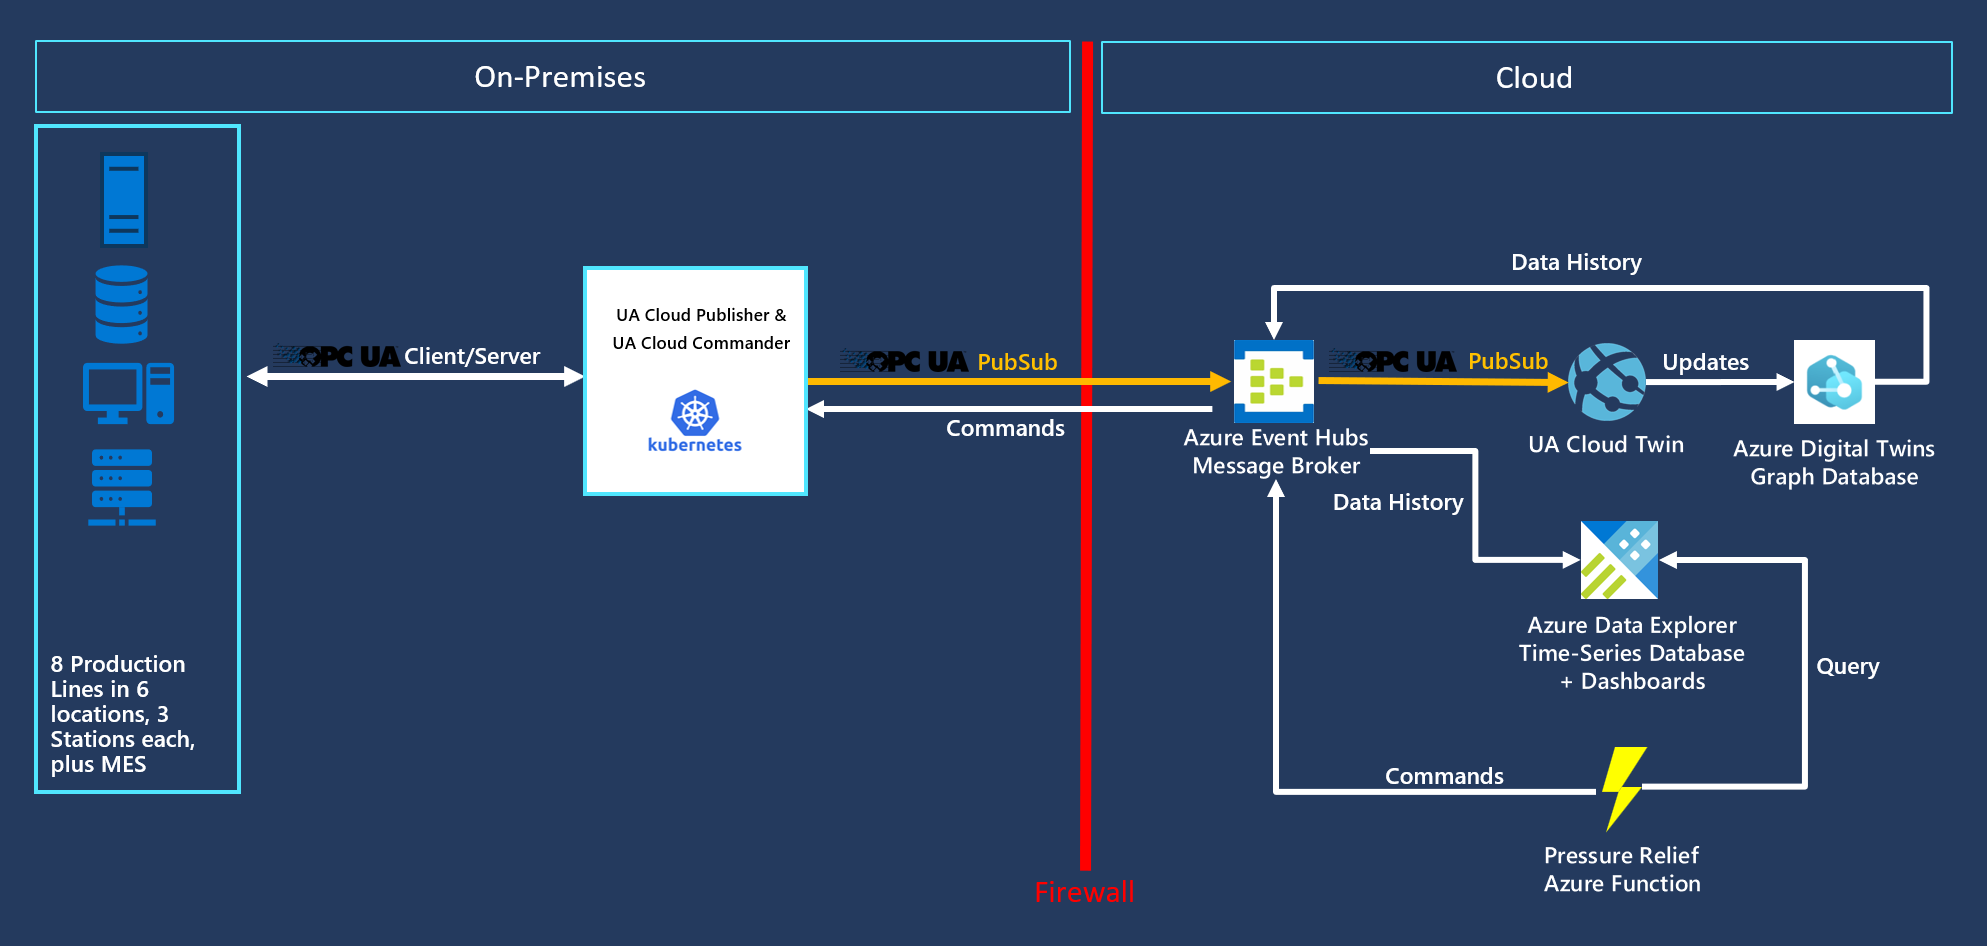
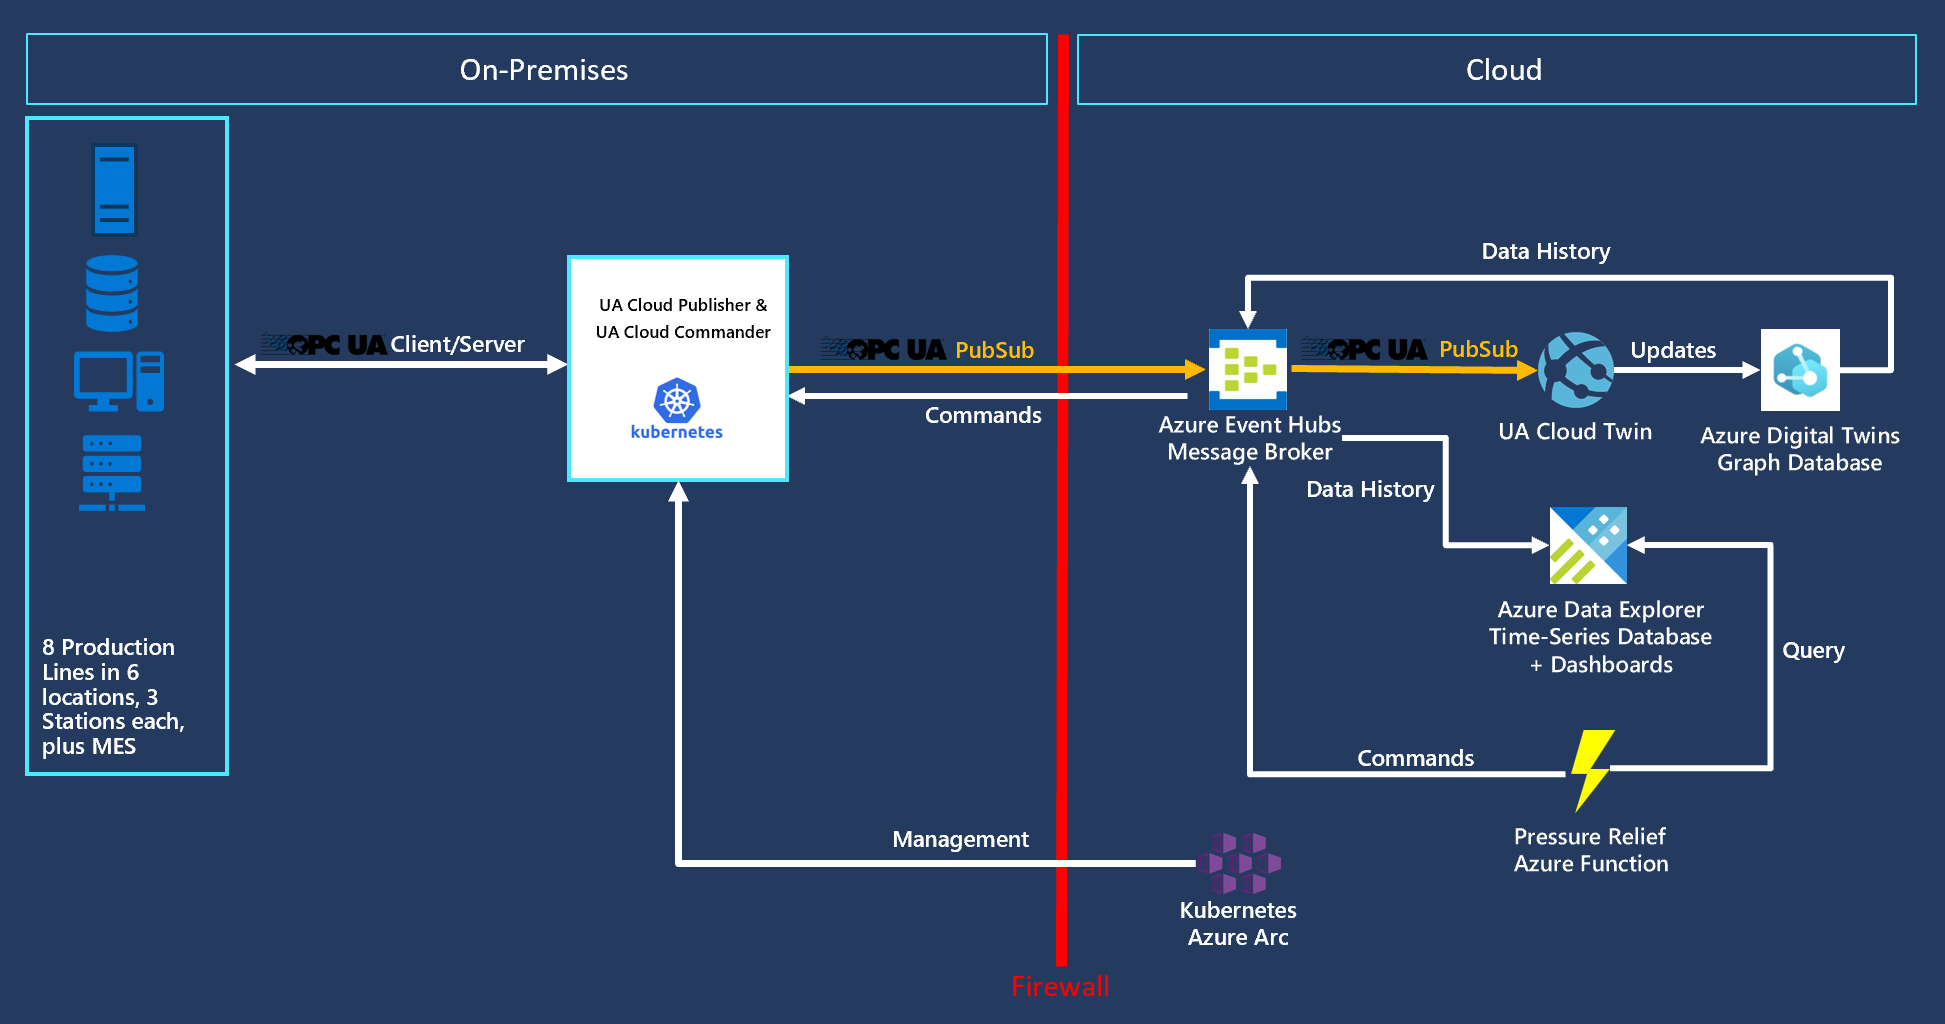
Added Azure Arc instructions

Changed region(s): [[0.0, 0.0307, 0.9871, 0.9197], [0.7712, 0.889, 0.8638, 0.9503], [0.5244, 0.9197, 0.5861, 0.981]]

diff --git a/README.md b/README.md
@@ -75,22 +75,6 @@ The following OPC UA Node IDs are used in the Station OPC UA Server for telemetr
 * i=418 - actual cycle time
 * i=434 - pressure
 
-### Preparing for the Installation of the Production Line Simulation
-
-The production line simulation runs on an on-prem, single-node Kubernetes cluster, provided by Docker Desktop ontop of a Windows Virtual Machine. The Kubernetes cluster is managed from the cloud via Azure Arc. Azure Arc requires a key pair (public and private) to operate. Create the required key pair via the [Azure Cloud Shell](https://shell.azure.com)'s `ssh-keygen` command:
-
-    ssh-keygen -t rsa -b 4096
-
-Note: The first time you start the Azure Cloud Shell, you will be prompted to setup Azure Storage. Simply click on Create storage.
-
-Note: By default, the public and private key files are created in the ~/.ssh directory. Running the ssh-keygen command will overwrite any SSH key pair with the same name already existing in the given location.
-
-Then, display the public key and copy everything past `ssh-rsa ` up to and including `==`. You will need it later when deploying the Azure resources:
-
-    more ~/.ssh/id_rsa.pub
-
-Note: If you need to access the keys at a later date, you can simply click on the Azure Cloud Shell icon in the top-right-hand corner of the Azure Portal to open the Azure Chould Shell again.
-
 ### Installation of Production Line Simulation and Cloud Services
 
 Clicking on the button below will **deploy** all required resources (on Microsoft Azure):
@@ -117,13 +101,21 @@ Please note: If you restart Docker Desktop at any time, you will need to stop an
 
 ### Next Steps
 
+#### Using Azure Digital Twins Explorer
+
 If you want to view the digital twins graph automatically created in the Azure Digital Twins service, assign yourself the Azure Digital Twins Data Owner role in the Azure Portal and open the Azure Digital Twins Explorer directly from the Azure Digital Twins overview page.
+
+#### Using 3D Scenes Studio
 
 If you want to add a 3D viewer to the simulation, you can follow the steps to configure the 3D Scenes Studio outlined [here](https://learn.microsoft.com/en-us/azure/digital-twins/how-to-use-3d-scenes-studio) and map the 3D robot model from [here](https://cardboardresources.blob.core.windows.net/public/RobotArms.glb) to the digital twins automatically generated by the UA Cloud Twin:
 
 <img src="Docs/3dviewer.png" alt="3dviewer" width="900" />
 
+#### Calculating OEE
+
 If you want to calculate OEE, add no-code dashboards or make predictions about the production, set up the [Data History](https://learn.microsoft.com/en-us/azure/digital-twins/concepts-data-history) feature in the Azure Digital Twins service to historize your contextualized OPC UA data to Azure Data Explorer deployed in this solution. You can find the wizard to set this up in the Azure Digital Twins service configuration in the Azure portal. 
+
+#### Enabling the Digital Feedback Loop with UA Cloud Commander and the Pressure Relief Azure Function
 
 If you want to test a "digital feedback loop", i.e. triggering a command on one of the OPC UA servers in the simulation from the cloud, based on a time-series reaching a certain threshold (the simulated pressure), then configure and run the StartUACloudCommander.bat file by providing the two environment variables (ENTER_EVENT_HUBS_HOSTNAME_HERE in the form "yourname-eventhubs.servicebus.windows.net" and ENTER_EVENT_HUBS_CONNECTION_STRING_HERE in the form "Endpoint=sb://yourname-eventhubs.servicebus.windows.net/;SharedAccessKeyName=RootManageSharedAccessKey;SharedAccessKey=abcdefgh=") in the batch file and deploy the PressureRelief Azure Function in your Azure subscription and create an application registration for your ADX instance as described [here](https://docs.microsoft.com/en-us/azure/data-explorer/provision-azure-ad-app). You also need to define the following environment variables in the Azure portal for the Function:
 
@@ -143,7 +135,25 @@ If you want to test a "digital feedback loop", i.e. triggering a command on one 
 * UA_SERVER_APPLICATION_NAME - set to "assembly"
 * UA_SERVER_DNS_NAME - set to "seattle"
 
-### Replacing the Production Line Simulation with a Real Production Line
+#### Onboarding the On-Prem Kubernetes Cluster for Management via Azure Arc in the Cloud
+
+To onboard your on-prem Kubernetes cluster, you first need to install the [Azure CLI](https://aka.ms/installazurecliwindows) on the Windows VM. Once installation complates, open a Command Prompt Window and login to Azure via:
+
+    az login
+
+Note: If you have access to more than one Azure subscription, you can verify you are using the correct subscription after login by running `az account show` and you can switch subscriptions by running `az account set -n <yourSubscriptionName>`.
+
+Then, onboard your cluster via:
+
+    az connectedk8s connect -g <yourResourceGroupName -n <theNameYouWantToGiveYourKubernetesClusterInAzure>
+
+Once the command completes, in the Azure Portal, click on the newly created Azure Arc instance and select Configuration. Open a PowerShell window and follow the instructions to create a beaker token to access the configuration. You can display the bearer token by typing echo $TOKEN in PowerShell.
+
+#### Deploying UA Cloud Publisher on the On-Prem Kubernetes Cluster via Azure Arc and GitOps
+
+TODO
+
+#### Replacing the Production Line Simulation with a Real Production Line
 
 Once you are ready to connect your own production line, simply delete the VM through the Azure Portal or, if you are running the simulation on a local PC, call the StopSimulation.cmd script. Then run UA Cloud Publisher on a Docker-enabled edge gateway PC (on Windows, for Linux, remove the "c:" bits) with the following command. The PC needs Internet access (via port 8883) and needs to be able to connect to your OPC UA-enabled machiens in your production line:
 
